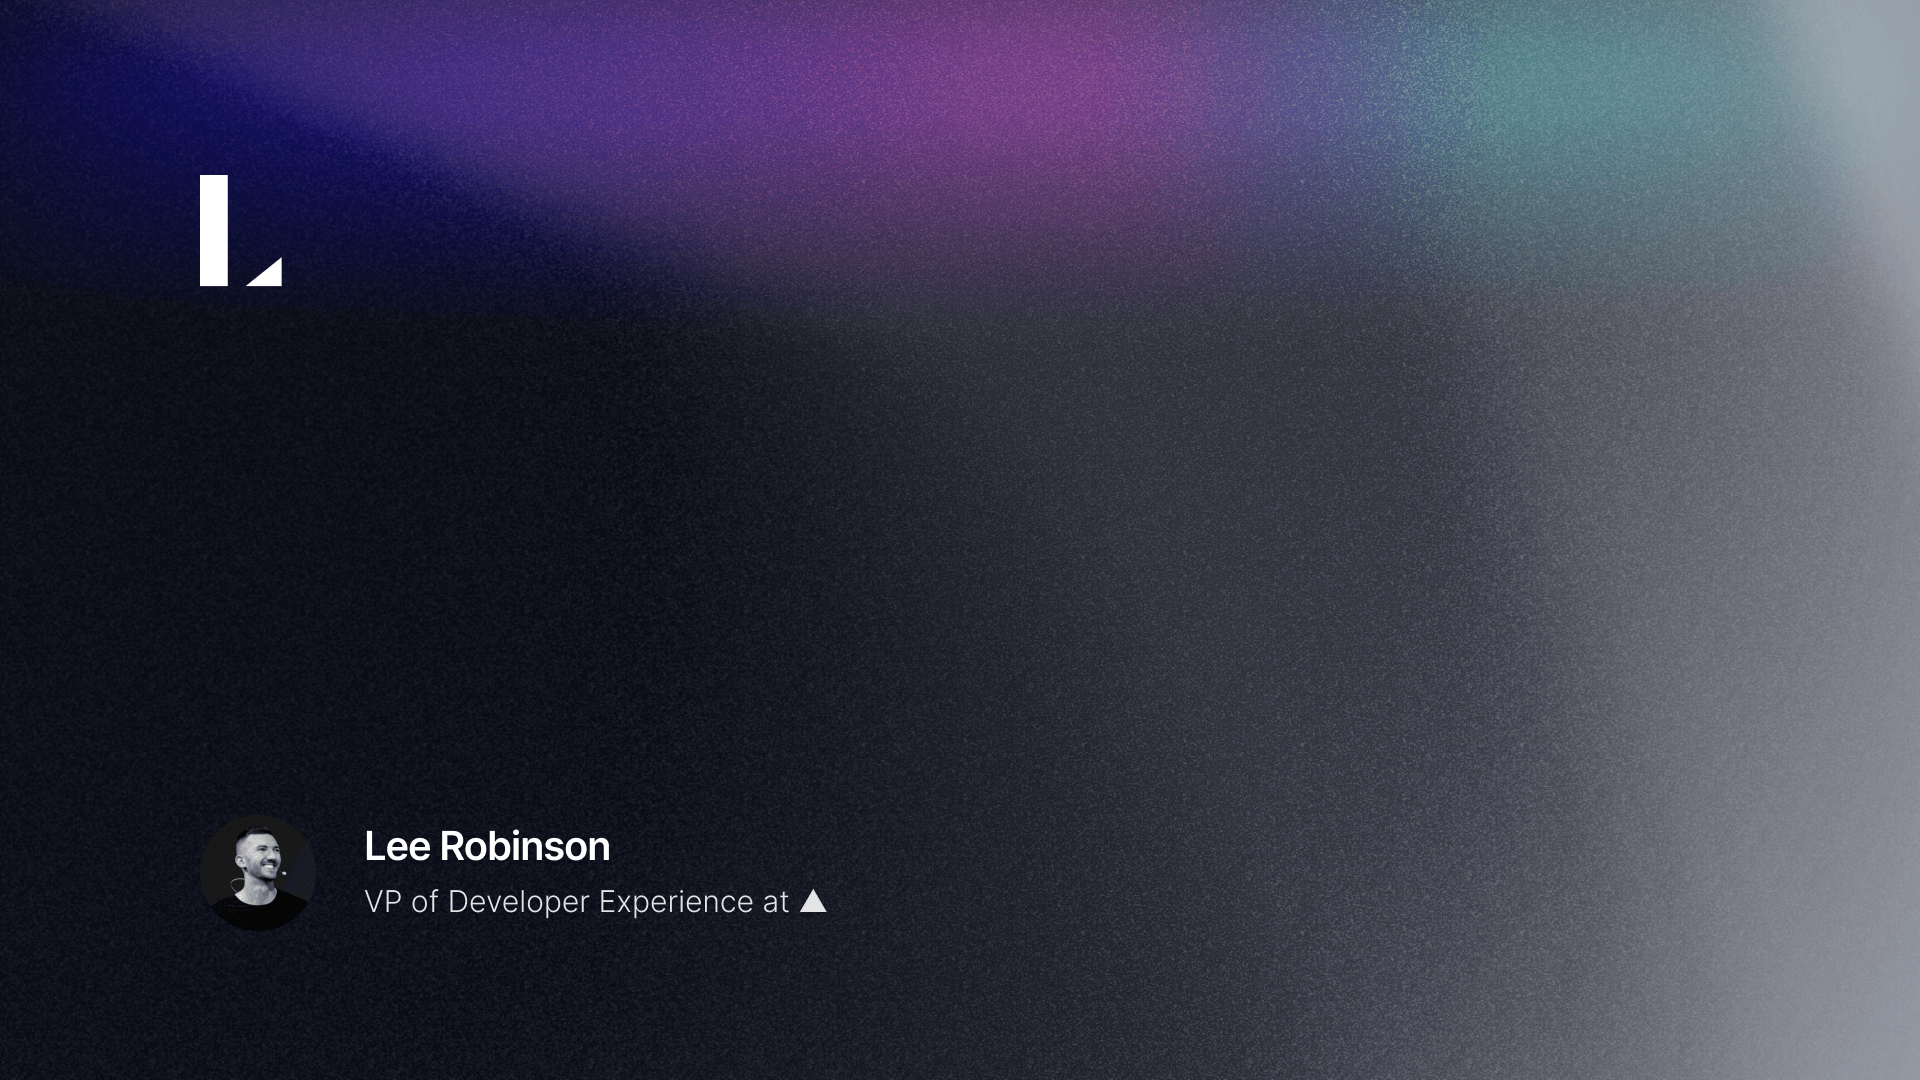
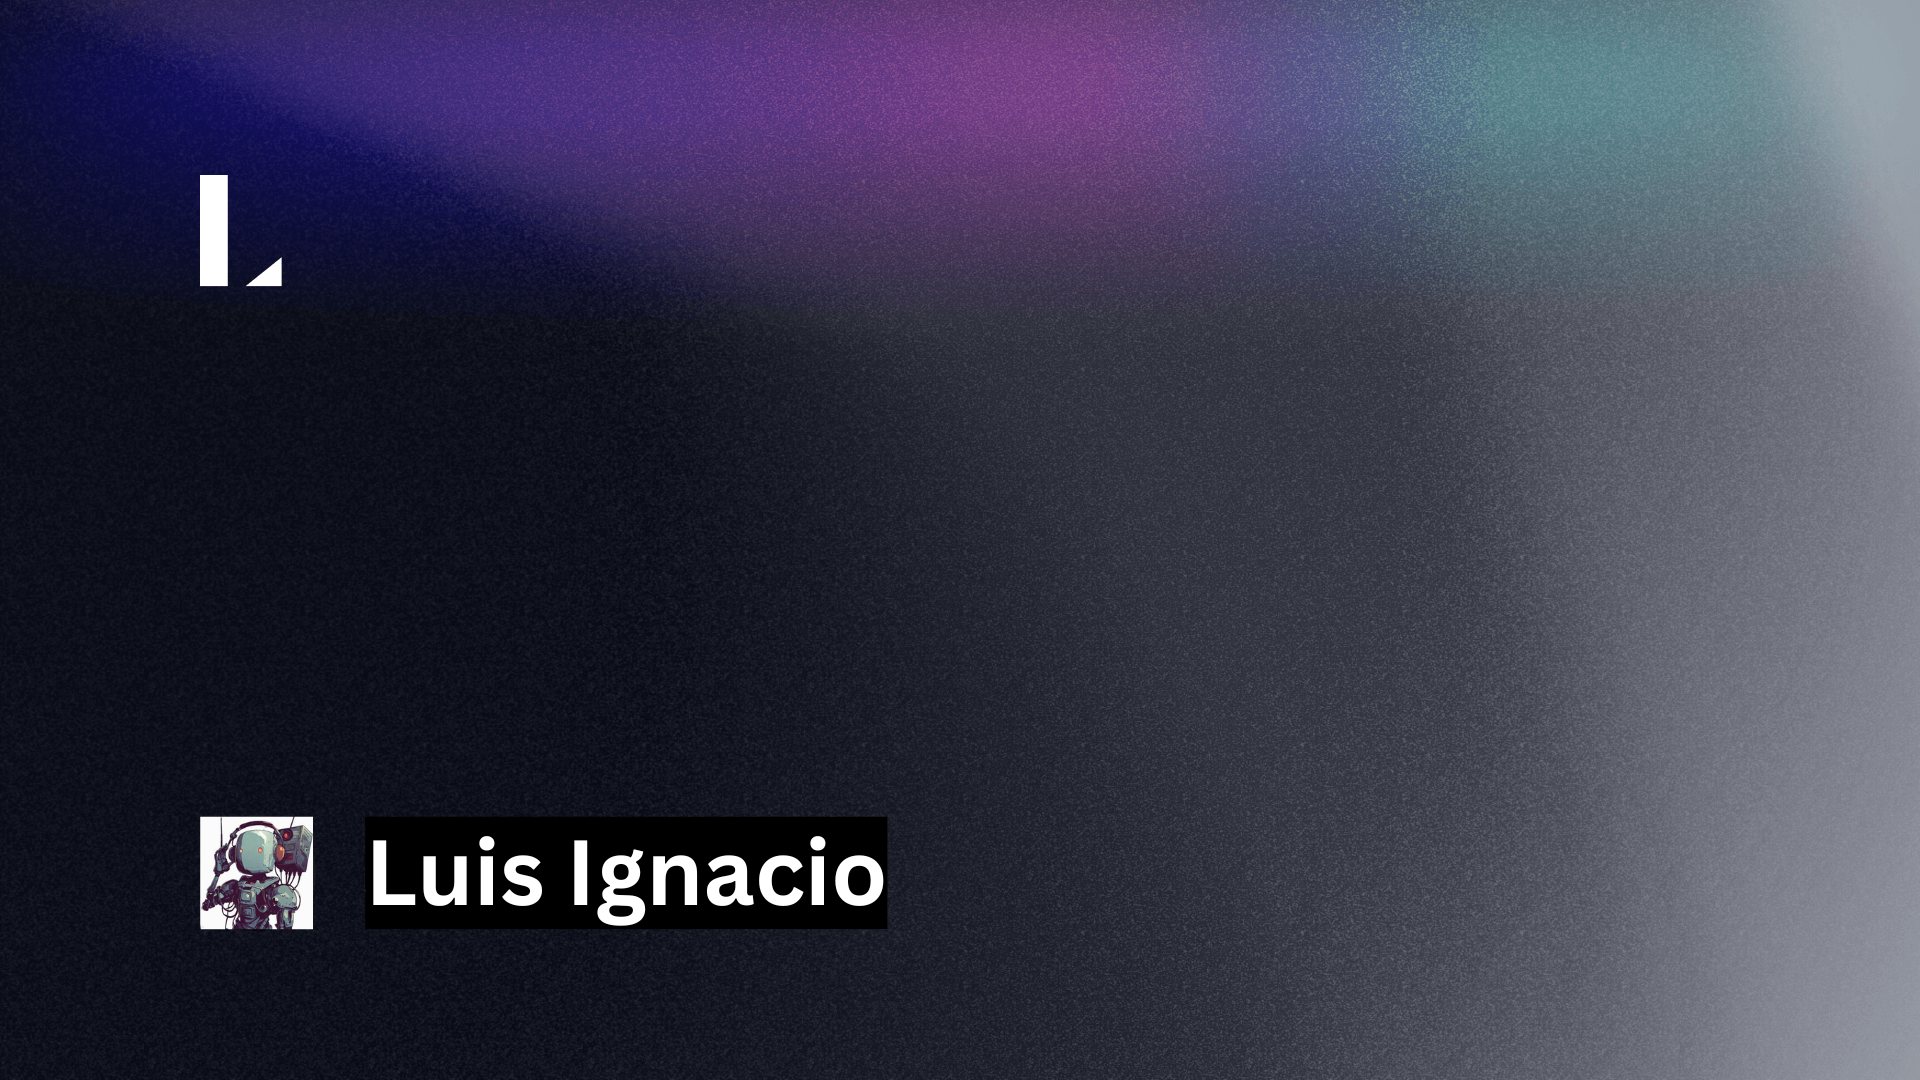
small changes

Changed region(s): [[0.0938, 0.7333, 0.4688, 0.8861]]

diff --git a/app/about/page.tsx b/app/about/page.tsx
@@ -16,8 +16,8 @@ export default function AboutPage() {
     <section>
       <h1 className="font-bold text-3xl font-serif">Sobre Mí</h1>
       <p className="my-5 text-neutral-800 dark:text-neutral-200">
-        Hey! soy Ignacio, aunque la mayoría de las personas me conocen como{" "}
-        <b>Nacho</b>.
+        Mi nombre es Luis Ignacio, aunque la mayoría de las personas me conocen
+        como <b>Nacho</b>.
       </p>
       <div className="prose prose-neutral dark:prose-invert text-neutral-800 dark:text-neutral-200">
         <p>
@@ -28,15 +28,15 @@ export default function AboutPage() {
               500 Global
             </a>
           </b>
-          , donde construyo herramientas que facilitan a los fundadores alcanzar
-          sus objetivos y hacer crecer sus negocios.
+          , donde construyo herramientas que ayudan talentosos emprendedores
+          construir empresas exitosas.
         </p>
         <hr />
         <p>
-          Soy apasionado de la tecnología y constantemente curioso acerca del
-          mundo que me rodea. Desde joven, he estado fascinado por la ciencia y
-          la tecnología, y me encantaba aprender cómo funcionaban las cosas.
-          Esta curiosidad finalmente me llevó a seguir una carrera en el
+          Me apasiona la tecnología y constantemente me mantengo curioso acerca
+          del mundo que me rodea. Desde joven, he estado fascinado por la
+          ciencia y la tecnología, y me encantaba aprender cómo funcionaban las
+          cosas. Esta curiosidad finalmente me llevó a seguir una carrera en el
           desarrollo de software.
         </p>
         <p>
@@ -45,7 +45,7 @@ export default function AboutPage() {
           satisfactorio en crear algo nuevo y útil. Es por eso que siempre estoy
           impaciente por aprender nuevas tecnologías para expandir mis
           habilidades y construir soluciones innovadoras a problemas complejos.
-          La libertad para crear es una de las cosas que más amo de ser
+          La libertad para crear es una de las cosas que más disfruto de ser
           desarrollador.
         </p>
         <p className="mb-8">
@@ -54,8 +54,7 @@ export default function AboutPage() {
           Aunque no soy músico, siempre me emociona probar nuevos instrumentos.
           También disfruto pasar tiempo al aire libre, jugar videojuegos, viajar
           a nuevos lugares y pasar tiempo de calidad en casa con mi familia y mi
-          gata, Caraota (llamada así por la palabra venezolana para frijoles
-          negros).
+          gata, Caraota.
         </p>
         <div className="flex flex-col gap-2 md:flex-row md:gap-2">
           <a

diff --git a/next.config.js b/next.config.js
@@ -1,25 +1,11 @@
-const { get } = require('@vercel/edge-config');
-const { withContentlayer } = require('next-contentlayer');
+const { get } = require("@vercel/edge-config");
+const { withContentlayer } = require("next-contentlayer");
 
 /** @type {import('next').NextConfig} */
 const nextConfig = {
-  images: {
-    formats: ['image/avif', 'image/webp'],
-    // Twitter Profile Picture
-    remotePatterns: [
-      {
-        protocol: 'https',
-        hostname: 'pbs.twimg.com',
-        pathname: '/**',
-      },
-    ],
-  },
-  experimental: {
-    appDir: true,
-  },
   redirects() {
     try {
-      return get('redirects');
+      return get("redirects");
     } catch {
       return [];
     }
@@ -27,7 +13,7 @@ const nextConfig = {
   headers() {
     return [
       {
-        source: '/(.*)',
+        source: "/(.*)",
         headers: securityHeaders,
       },
     ];
@@ -48,38 +34,38 @@ const ContentSecurityPolicy = `
 const securityHeaders = [
   // https://developer.mozilla.org/en-US/docs/Web/HTTP/CSP
   {
-    key: 'Content-Security-Policy',
-    value: ContentSecurityPolicy.replace(/\n/g, ''),
+    key: "Content-Security-Policy",
+    value: ContentSecurityPolicy.replace(/\n/g, ""),
   },
   // https://developer.mozilla.org/en-US/docs/Web/HTTP/Headers/Referrer-Policy
   {
-    key: 'Referrer-Policy',
-    value: 'origin-when-cross-origin',
+    key: "Referrer-Policy",
+    value: "origin-when-cross-origin",
   },
   // https://developer.mozilla.org/en-US/docs/Web/HTTP/Headers/X-Frame-Options
   {
-    key: 'X-Frame-Options',
-    value: 'DENY',
+    key: "X-Frame-Options",
+    value: "DENY",
   },
   // https://developer.mozilla.org/en-US/docs/Web/HTTP/Headers/X-Content-Type-Options
   {
-    key: 'X-Content-Type-Options',
-    value: 'nosniff',
+    key: "X-Content-Type-Options",
+    value: "nosniff",
   },
   // https://developer.mozilla.org/en-US/docs/Web/HTTP/Headers/X-DNS-Prefetch-Control
   {
-    key: 'X-DNS-Prefetch-Control',
-    value: 'on',
+    key: "X-DNS-Prefetch-Control",
+    value: "on",
   },
   // https://developer.mozilla.org/en-US/docs/Web/HTTP/Headers/Strict-Transport-Security
   {
-    key: 'Strict-Transport-Security',
-    value: 'max-age=31536000; includeSubDomains; preload',
+    key: "Strict-Transport-Security",
+    value: "max-age=31536000; includeSubDomains; preload",
   },
   // https://developer.mozilla.org/en-US/docs/Web/HTTP/Headers/Feature-Policy
   {
-    key: 'Permissions-Policy',
-    value: 'camera=(), microphone=(), geolocation=()',
+    key: "Permissions-Policy",
+    value: "camera=(), microphone=(), geolocation=()",
   },
 ];
 

diff --git a/lib/info.tsx b/lib/info.tsx
@@ -1,21 +1,21 @@
-import me from "../app/avatar.jpg";
+import me from "../app/avatar.jpeg";
 
 export const name = "Luis Ignacio Collantes";
 export const avatar = me;
 export const about = () => {
   return (
     <>
-      ¡Que tal! Soy Ignacio, un desarrollador de software con varios años de
-      experiencia construyendo productos y trabajando con startups.
+      Soy Luis Ignacio, desarrollador de software con varios años de experiencia
+      construyendo productos y trabajando con startups.
     </>
   );
 };
 export const bio = () => {
   return (
     <>
-      Me encanta crear tecnología que ayuda a las empresas a prosperar. Ya sea
-      programando una importante feature o solucionando un molesto bug, siempre
-      estoy animado a enfrentar un buen desafío.
+      Me encanta crear tecnología que genere valor. Ya sea programando una
+      feature o solucionando un bug, siempre estoy animado a enfrentar un buen
+      desafío.
     </>
   );
 };

diff --git a/app/page.tsx b/app/page.tsx
@@ -62,6 +62,17 @@ export default async function HomePage() {
             <p className="h-7">LinkedIn</p>
           </a>
         </li>
+        <li>
+          <a
+            className="flex items-center hover:text-neutral-700 dark:hover:text-neutral-200 transition-all"
+            rel="noopener noreferrer"
+            target="_blank"
+            href="https://cv.luisignacio.cc"
+          >
+            <ArrowIcon />
+            <p className="h-7">C.V.</p>
+          </a>
+        </li>
       </ul>
     </section>
   );
